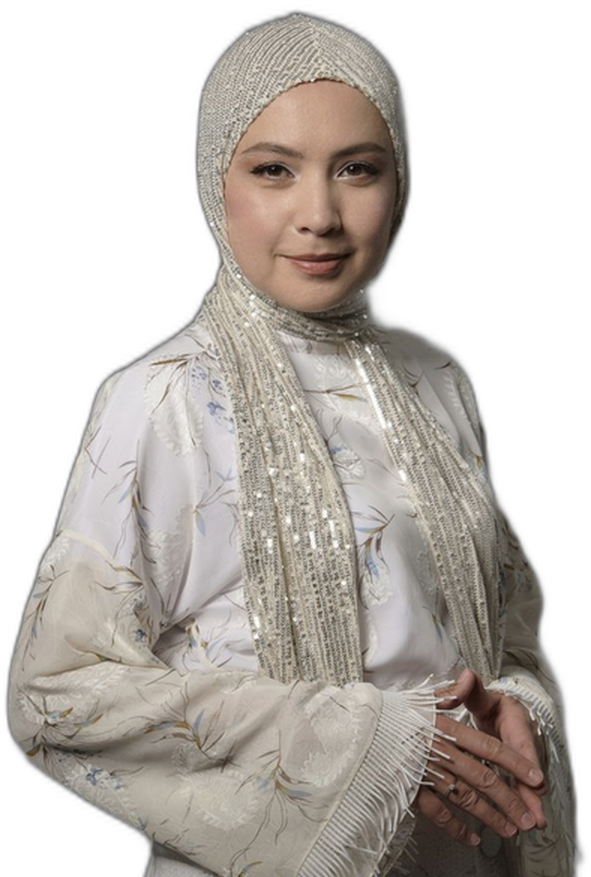
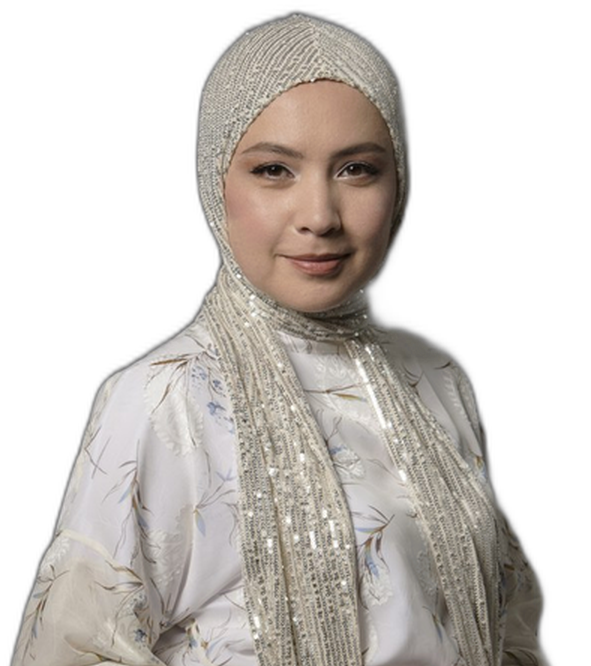
Update: animatsiyalar o'chirildi, expert rasmlari kesildi/moslashtirildi, modal+thanks sahifasi, 2:00 timer, navbar va fonlar yangilandi

diff --git a/b/css/style.css b/b/css/style.css
@@ -171,7 +171,7 @@ main{ background:var(--ink); overflow:hidden; }
 .hero__grid{ position:relative; z-index:1; display:flex; flex-direction:column; }
 
 /* rasm tepada — ramkasiz PNG cutout, kattalashtirilib tugmaga tegib turadi */
-.hero__media{ position:relative; z-index:1; width:74%; max-width:250px; margin:0 auto -10px; }
+.hero__media{ position:relative; z-index:1; width:84%; max-width:290px; margin:0 auto -10px; }
 .portrait{ position:relative; width:100%; }
 .portrait__img{
   width:100%; display:block;
@@ -367,3 +367,7 @@ main{ background:var(--ink); overflow:hidden; }
 .rmodal__ok{ text-align:center; padding:10px 4px 2px; }
 .rmodal__check{ width:52px; height:52px; margin:0 auto 10px; border-radius:50%; display:grid; place-items:center; font-size:26px; color:#241a08; background:linear-gradient(135deg,var(--gold-lt),var(--gold)); }
 .rmodal__ok p{ font-size:14px; color:#C7C0B0; }
+
+/* ===================== ANIMATSIYALAR O'CHIRILDI ===================== */
+*, *::before, *::after{ animation:none !important; transition:none !important; }
+.reveal{ opacity:1 !important; transform:none !important; }

diff --git a/css/style.css b/css/style.css
@@ -156,7 +156,7 @@ img{ display:block; max-width:100%; }
 }
 
 /* Portret — ramkasiz, yumshoq fon + soya, kichikroq va tepaga surilgan */
-.portrait{ position:relative; width:236px; margin:-6px auto -14px; }
+.portrait{ position:relative; width:272px; margin:-6px auto -14px; }
 .portrait::before{
   content:""; position:absolute; z-index:0;
   left:50%; top:0%; transform:translateX(-50%);
@@ -457,3 +457,7 @@ img{ display:block; max-width:100%; }
 .rmodal__ok{ text-align:center; padding:10px 4px 2px; }
 .rmodal__check{ width:52px; height:52px; margin:0 auto 10px; border-radius:50%; display:grid; place-items:center; font-size:26px; color:#fff; background:linear-gradient(135deg,var(--gold-lt),var(--gold)); }
 .rmodal__ok p{ font-size:14px; color:var(--ink); }
+
+/* ===================== ANIMATSIYALAR O'CHIRILDI ===================== */
+*, *::before, *::after{ animation:none !important; transition:none !important; }
+.reveal{ opacity:1 !important; transform:none !important; }

diff --git a/a/css/style.css b/a/css/style.css
@@ -209,3 +209,7 @@ img{ display:block; max-width:100%; }
 .rmodal__ok{ text-align:center; padding:10px 4px 2px; }
 .rmodal__check{ width:52px; height:52px; margin:0 auto 10px; border-radius:50%; display:grid; place-items:center; font-size:26px; color:#fff; background:linear-gradient(135deg,var(--brand-lt),var(--brand-dk)); }
 .rmodal__ok p{ font-size:14px; color:var(--ink); }
+
+/* ===================== ANIMATSIYALAR O'CHIRILDI ===================== */
+*, *::before, *::after{ animation:none !important; transition:none !important; }
+.reveal{ opacity:1 !important; transform:none !important; }
